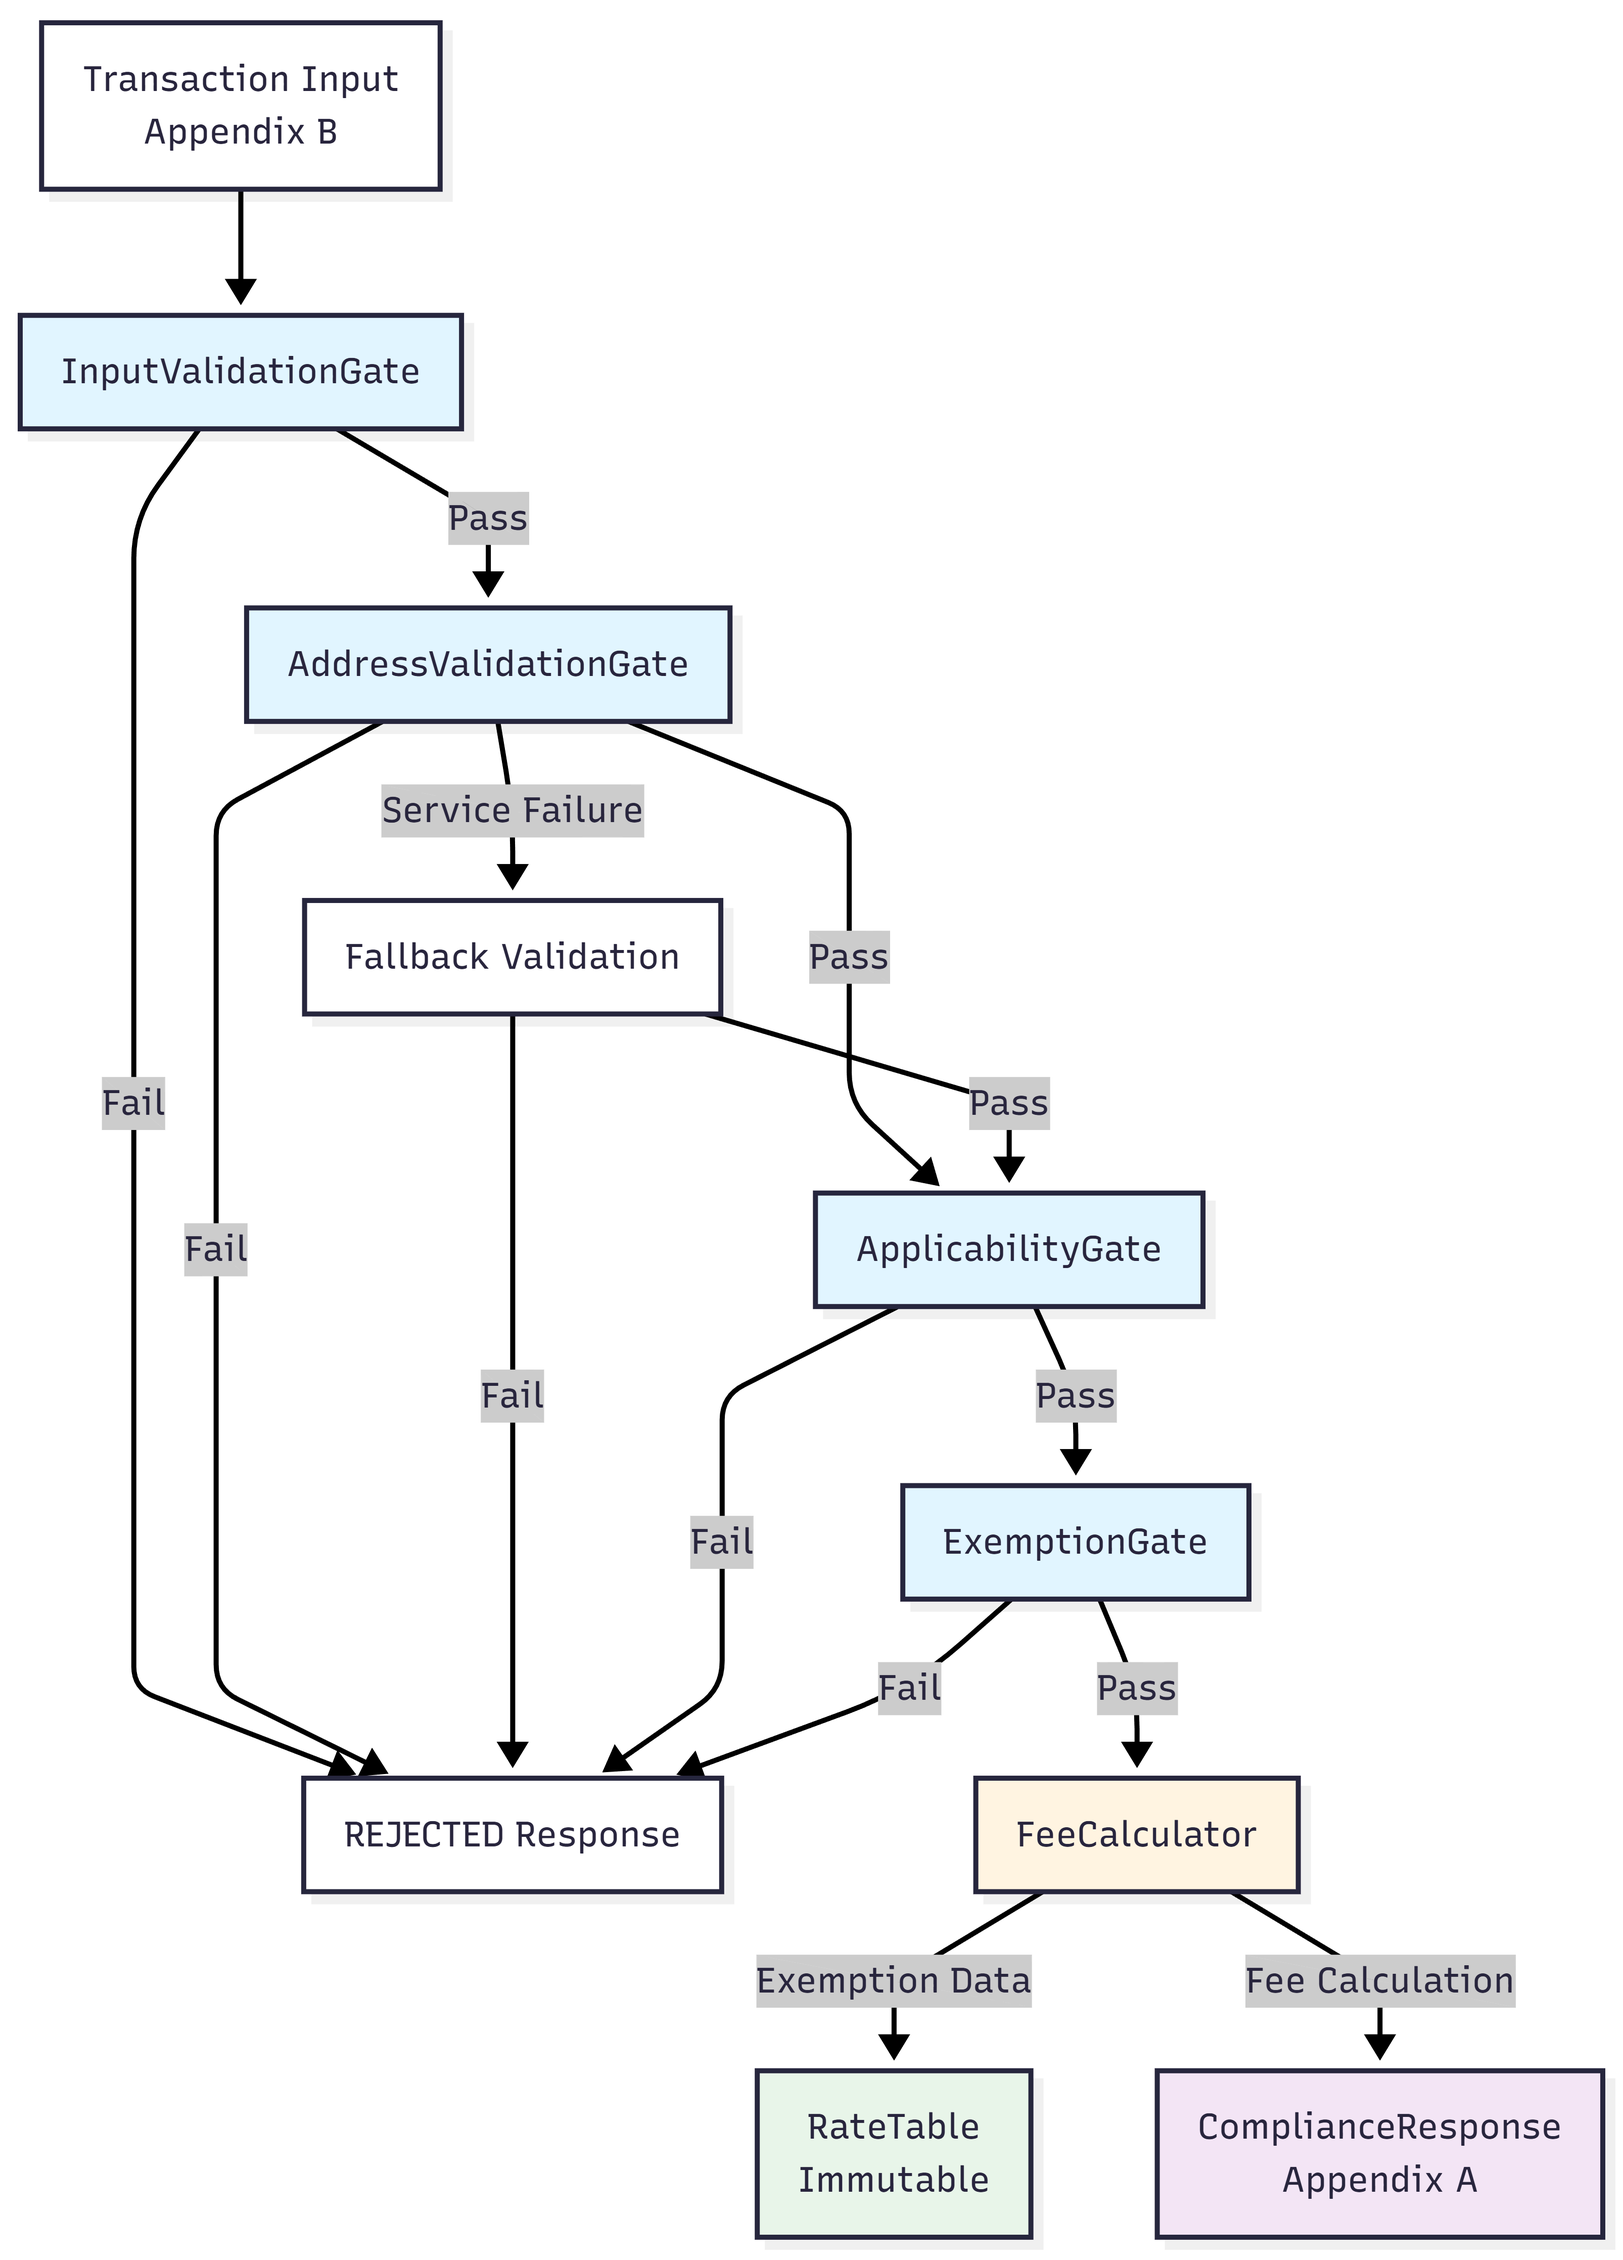
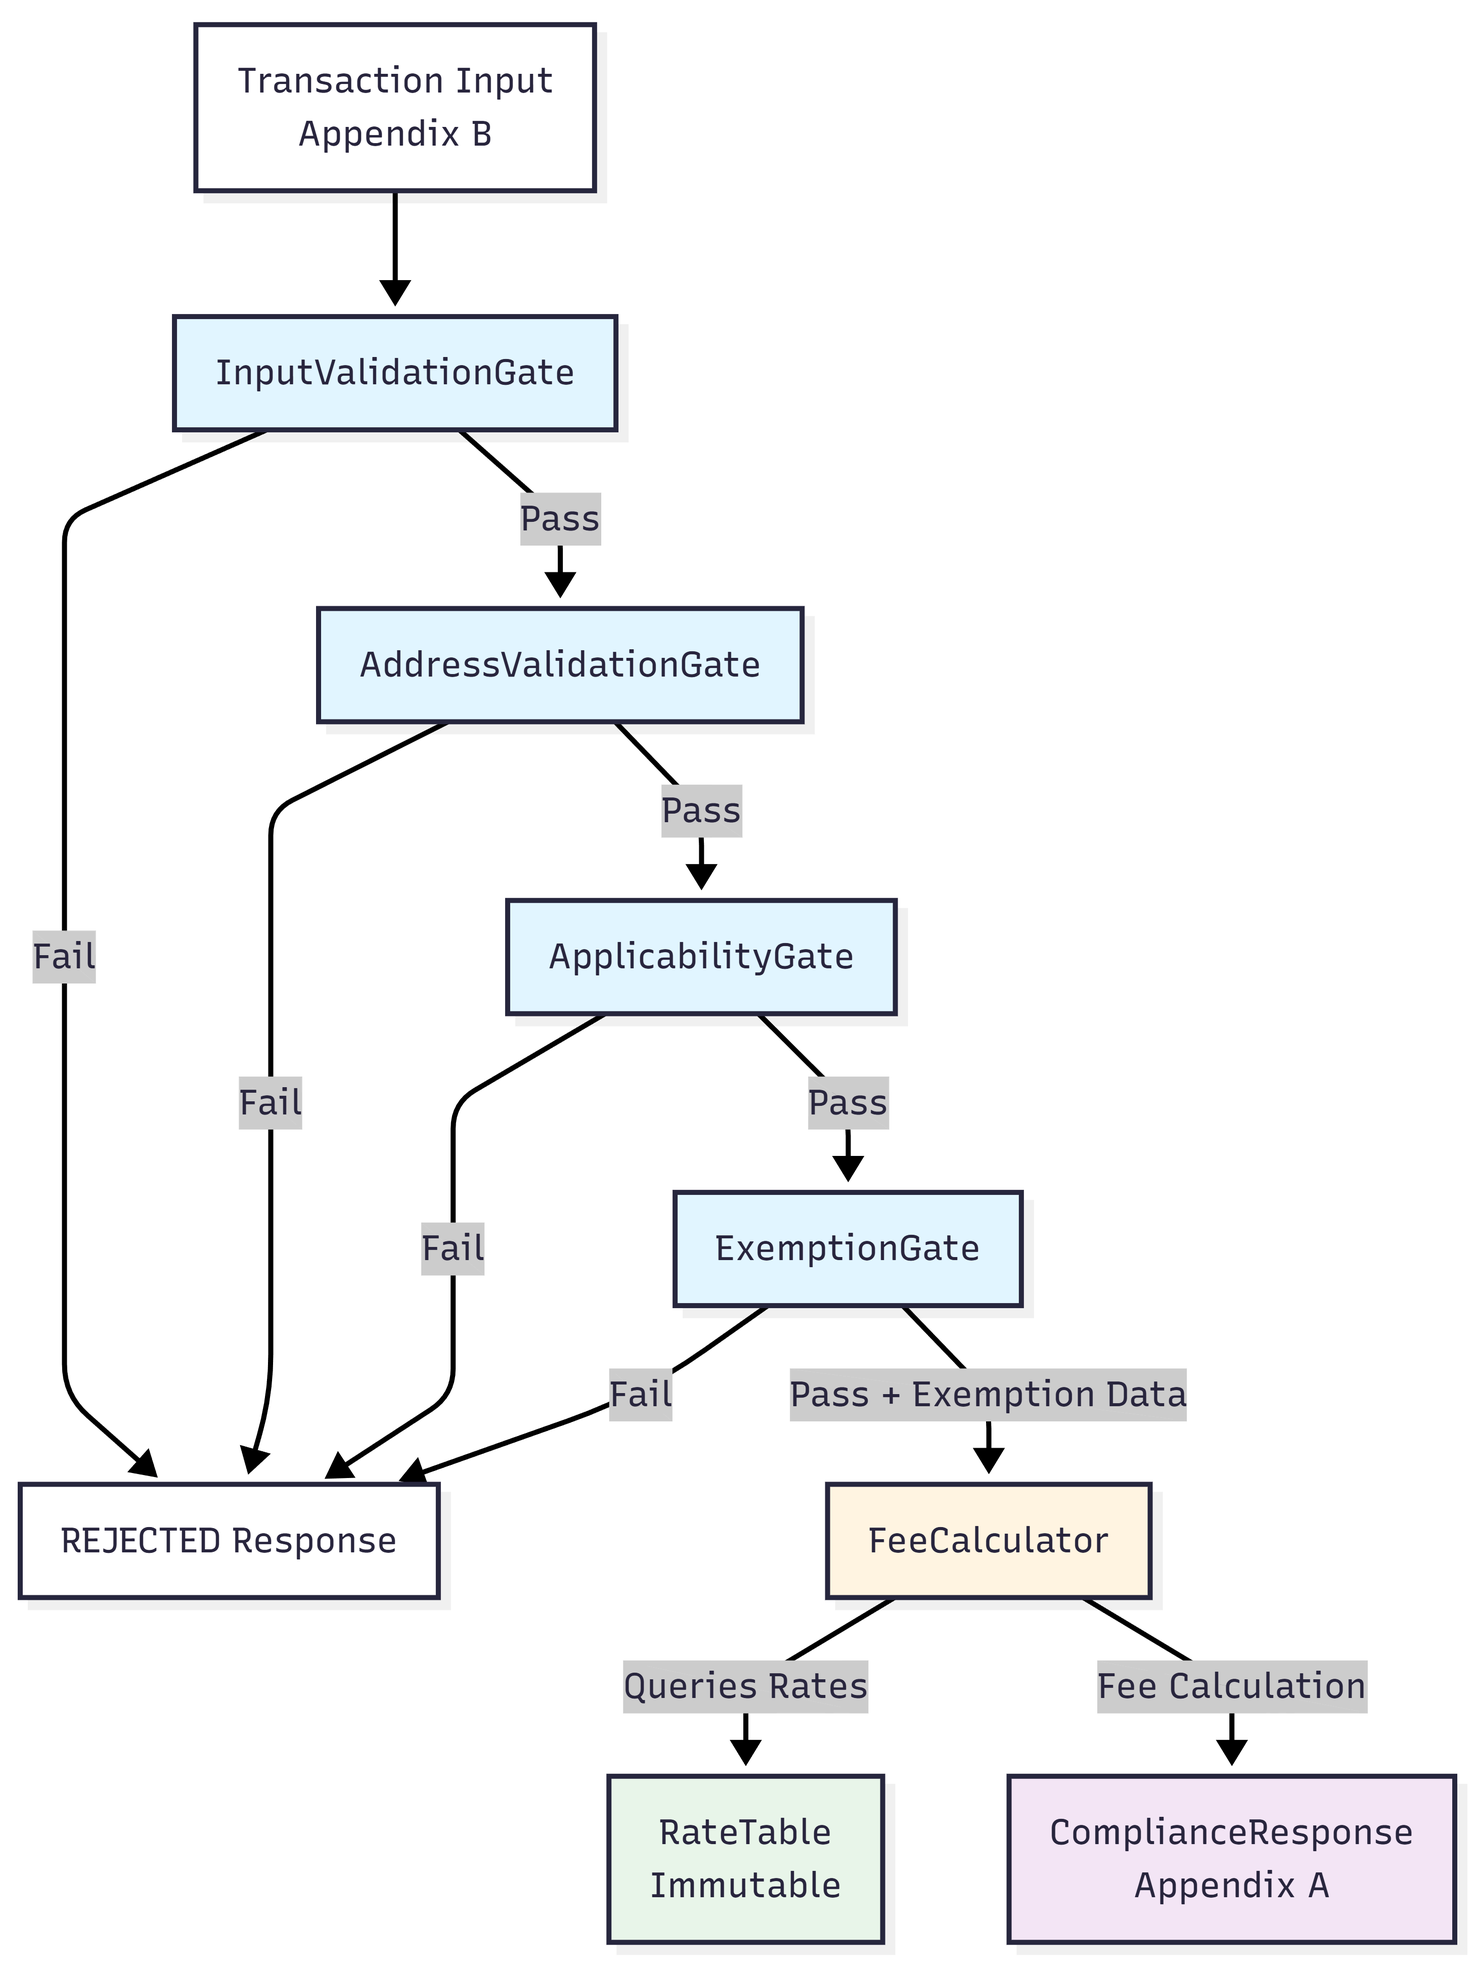
Updated the architecture diagram

diff --git a/docs/architecture.md b/docs/architecture.md
@@ -14,17 +14,14 @@ flowchart TD
     
     AVGate -->|Pass| AppGate[ApplicabilityGate]
     AVGate -->|Fail| Reject
-    AVGate -->|Service Failure| Fallback[Fallback Validation]
-    Fallback -->|Pass| AppGate
-    Fallback -->|Fail| Reject
     
     AppGate -->|Pass| ExGate[ExemptionGate]
     AppGate -->|Fail| Reject
     
-    ExGate -->|Pass| Calc[FeeCalculator]
+    ExGate -->|Pass + Exemption Data| Calc[FeeCalculator]
     ExGate -->|Fail| Reject
     
-    Calc -->|Exemption Data| RateTable[RateTable<br/>Immutable]
+    Calc -->|Queries Rates| RateTable[RateTable<br/>Immutable]
     Calc -->|Fee Calculation| Response[ComplianceResponse<br/>Appendix A]
     
     style IVGate fill:#e1f5ff
@@ -57,15 +54,17 @@ flowchart TD
 **Component:** `AddressValidationGate`
 
 **Responsibilities:**
-- Validates destination against supported jurisdictions
-- Simulates external service call with timeout handling
-- Implements fallback validation when external service fails
-- Caches validation results for performance
+- Validates destination against supported jurisdictions using database queries
+- Checks in-memory cache first for performance optimization
+- Calls database service with 5-second timeout handling
+- Caches validation results (state:city combinations) for future requests
+- Returns DEPENDENCY error when database service is unavailable
 
 **Resilience Pattern:**
-- Timeout + fallback (not a full circuit breaker)
-- Falls back to local validation rules on service failure
-- Error type: 'DEPENDENCY' when service fails
+- Cache-first strategy to reduce database load
+- Database service timeout (5 seconds) to prevent hanging requests
+- On database failure (timeout or error), rejects transaction with DEPENDENCY error type
+- No fallback validation - system requires database service availability
 
 ### 3. Applicability Layer
 
@@ -174,25 +173,29 @@ Gates are registered in `GateOrchestrator` constructor. New gates can be added w
 
 #### Address Validation Service Failure
 
-**Pattern:** Timeout + Fallback (inspired by circuit breakers, not full implementation)
+**Pattern:** Cache-First with Database Service Timeout
 
 **Behavior:**
-1. Attempt external service call with timeout (100ms)
-2. On timeout/failure, fall back to local validation rules
-3. Cache result for future requests
-4. Return DEPENDENCY error type if fallback also fails
+1. Check in-memory cache first (key: "state:city")
+2. If cache miss, attempt database service call with 5-second timeout
+3. On successful database response, cache result (valid/invalid)
+4. On database timeout or error, reject transaction with DEPENDENCY error type
+5. No fallback validation - system requires database service availability
 
-**Why not full circuit breaker?**
-- No shared state across instances
-- No failure threshold tracking
-- No half-open state
-- Simpler implementation for current scope
+**Error Handling:**
+- Database service failures (timeout, connection errors) result in DEPENDENCY error
+- Transaction is rejected when database service is unavailable
+- Error details logged for monitoring purposes
 
-**Future:** Could evolve to full circuit breaker if needed.
+**Cache Strategy:**
+- Simple in-memory cache (no expiration)
+- Cache key format: "state:city"
+- Reduces database load for frequently validated addresses
 
 ### Graceful Degradation
 
-- External service failure → Fallback to local rules
+- Database service failure → Reject with DEPENDENCY error (requires service availability)
+- Cache hits → Avoid database calls for previously validated addresses
 - Missing rate data → Default to 0% (with audit trail)
 - Invalid input → Clear error message in response
 
